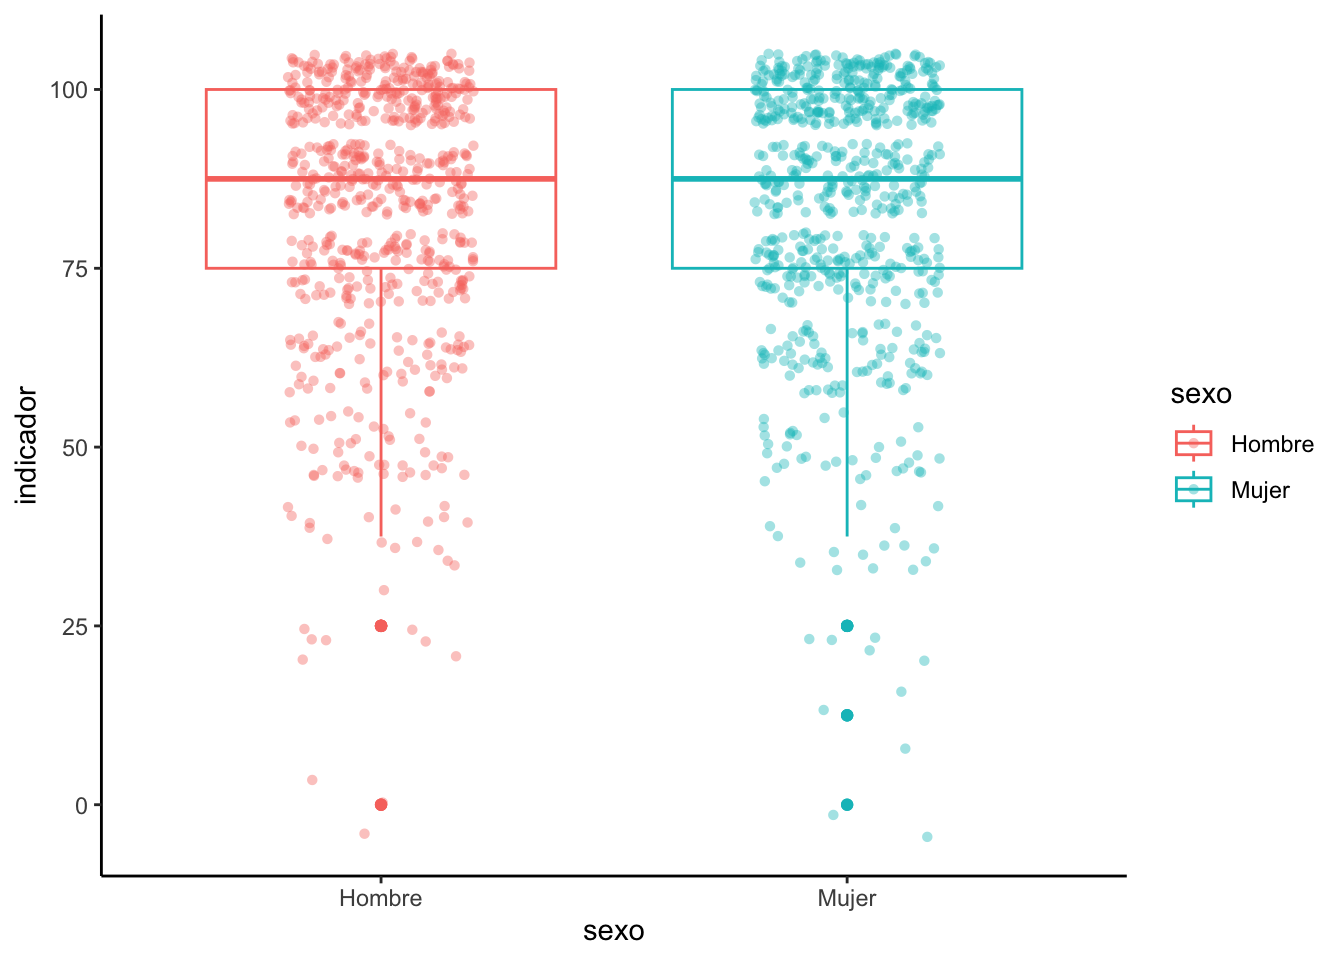
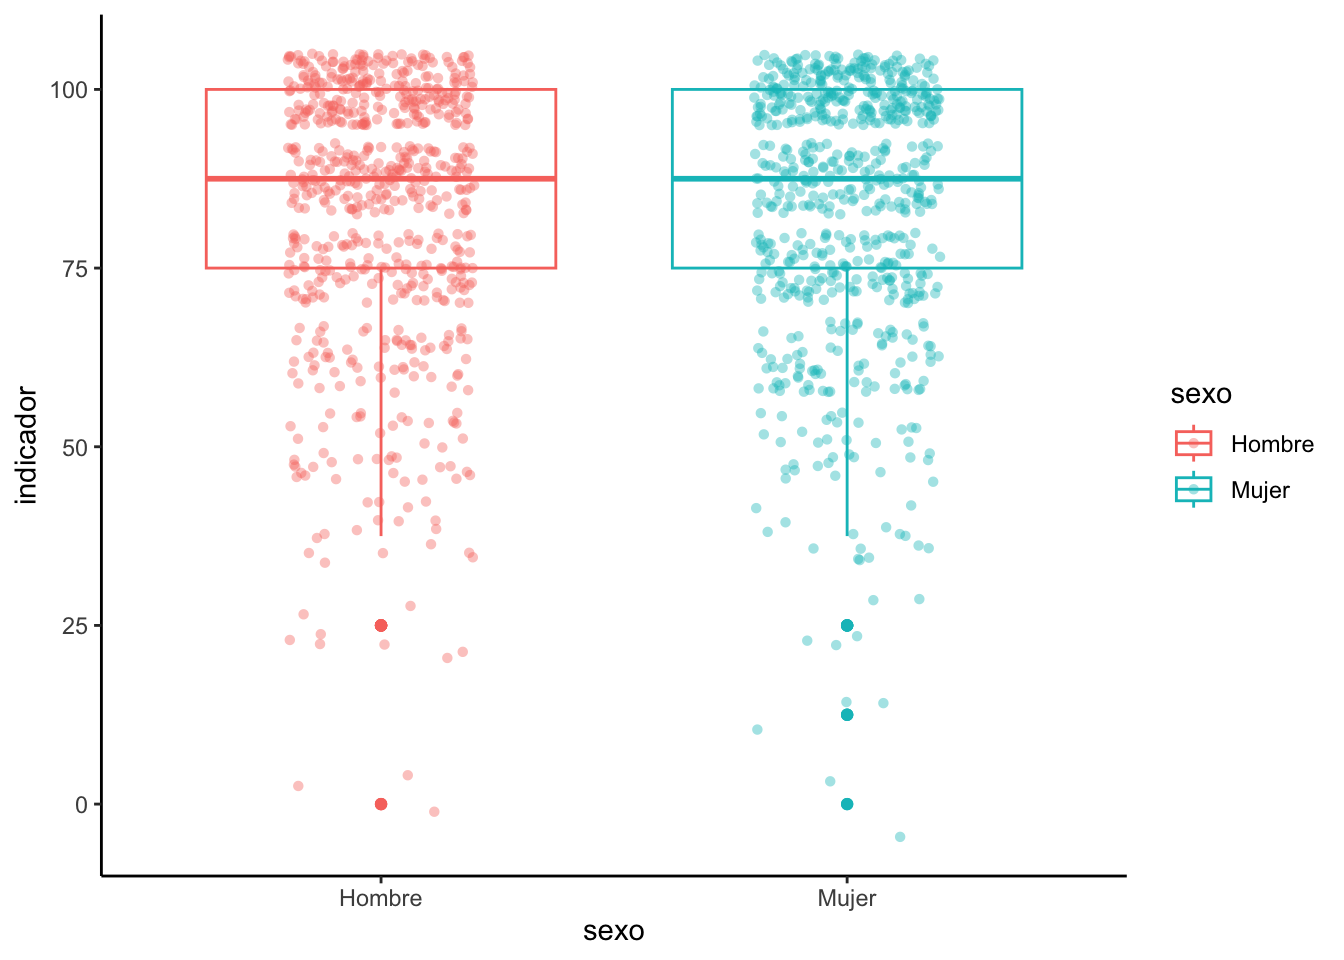
p2v4

diff --git a/pd2.html b/pd2.html
@@ -479,9 +479,9 @@ str(data)</code></pre>
 ##  [6] &quot;p05&quot;        &quot;clase&quot;      &quot;d_educ&quot;     &quot;d_salud&quot;    &quot;d_trabajo&quot; 
 ## [11] &quot;d_justicia&quot; &quot;p13&quot;</code></pre>
 <div
-id="cuál-es-el-porcentaje-de-percepción-de-desigualdad-económica-en-el-perú"
+id="cómo-se-distribuye-la-percepción-de-desigualdad-económica-en-el-perú"
 class="section level2">
-<h2>4.1 ¿Cuál es el porcentaje de percepción de desigualdad económica en
+<h2>4.1 ¿Cómo se distribuye (%)la percepción de desigualdad económica en
 el Perú?</h2>
 <p>Usaremos la variable <strong>P04</strong>:</p>
 <p><code>¿Qué tan desigual cree que es el Perú económicamente?</code></p>
